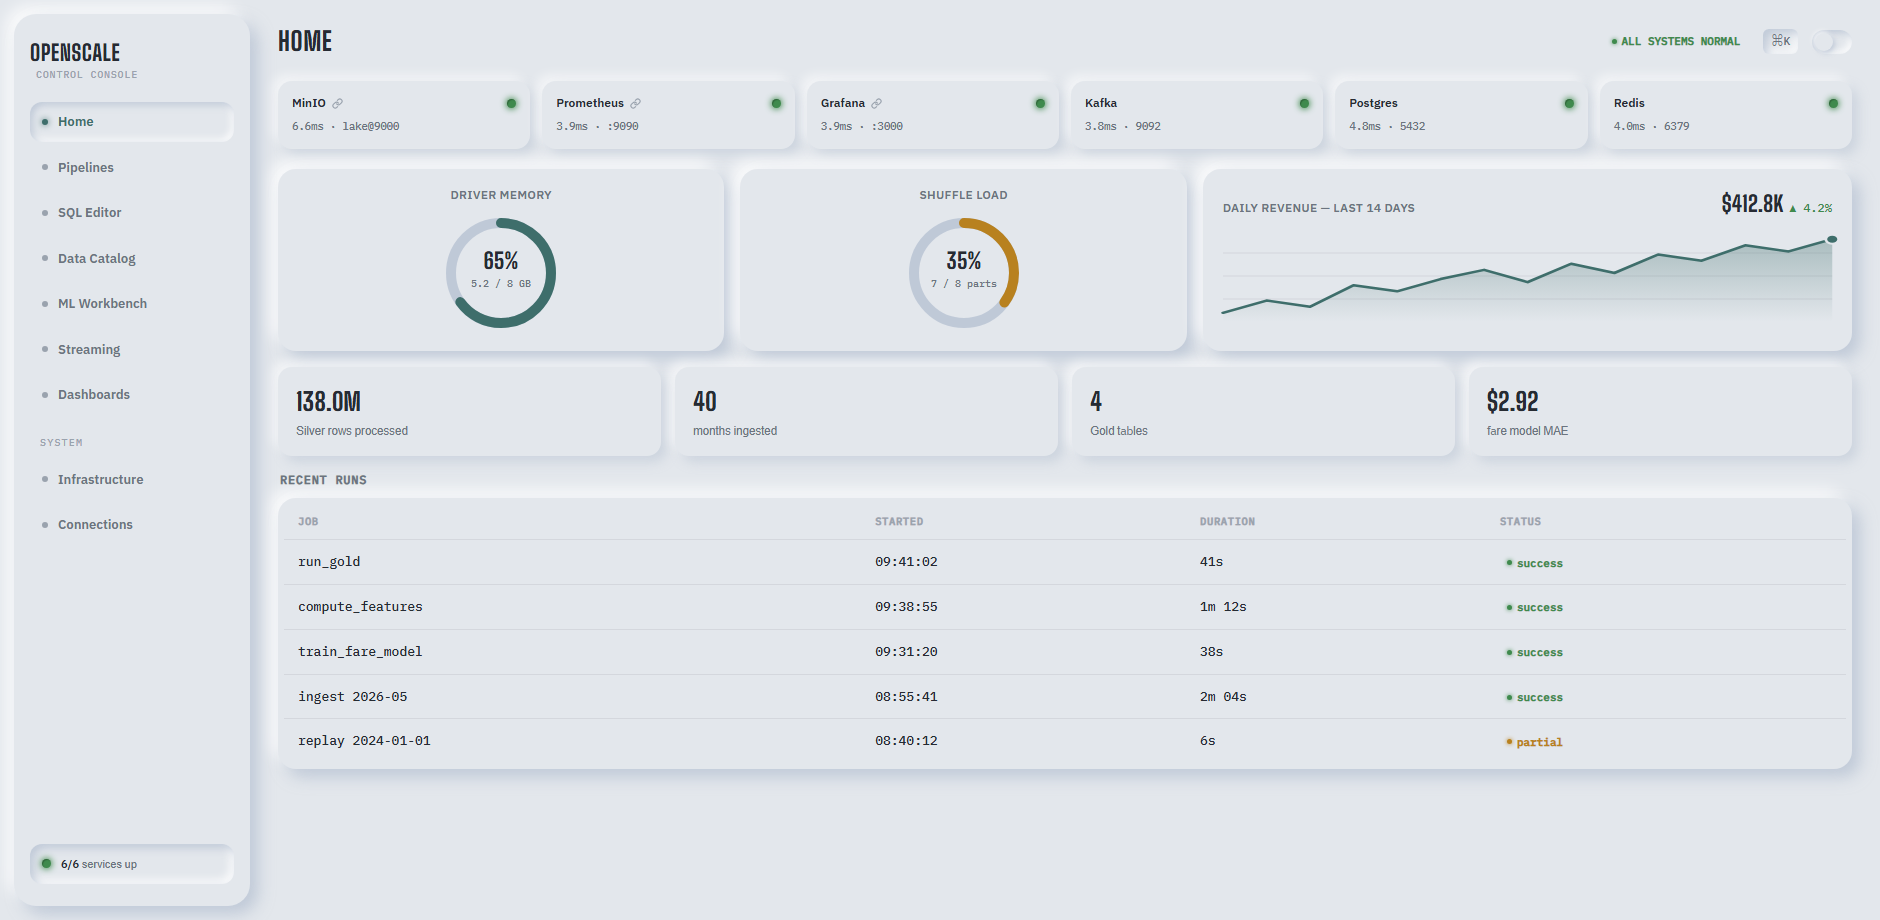
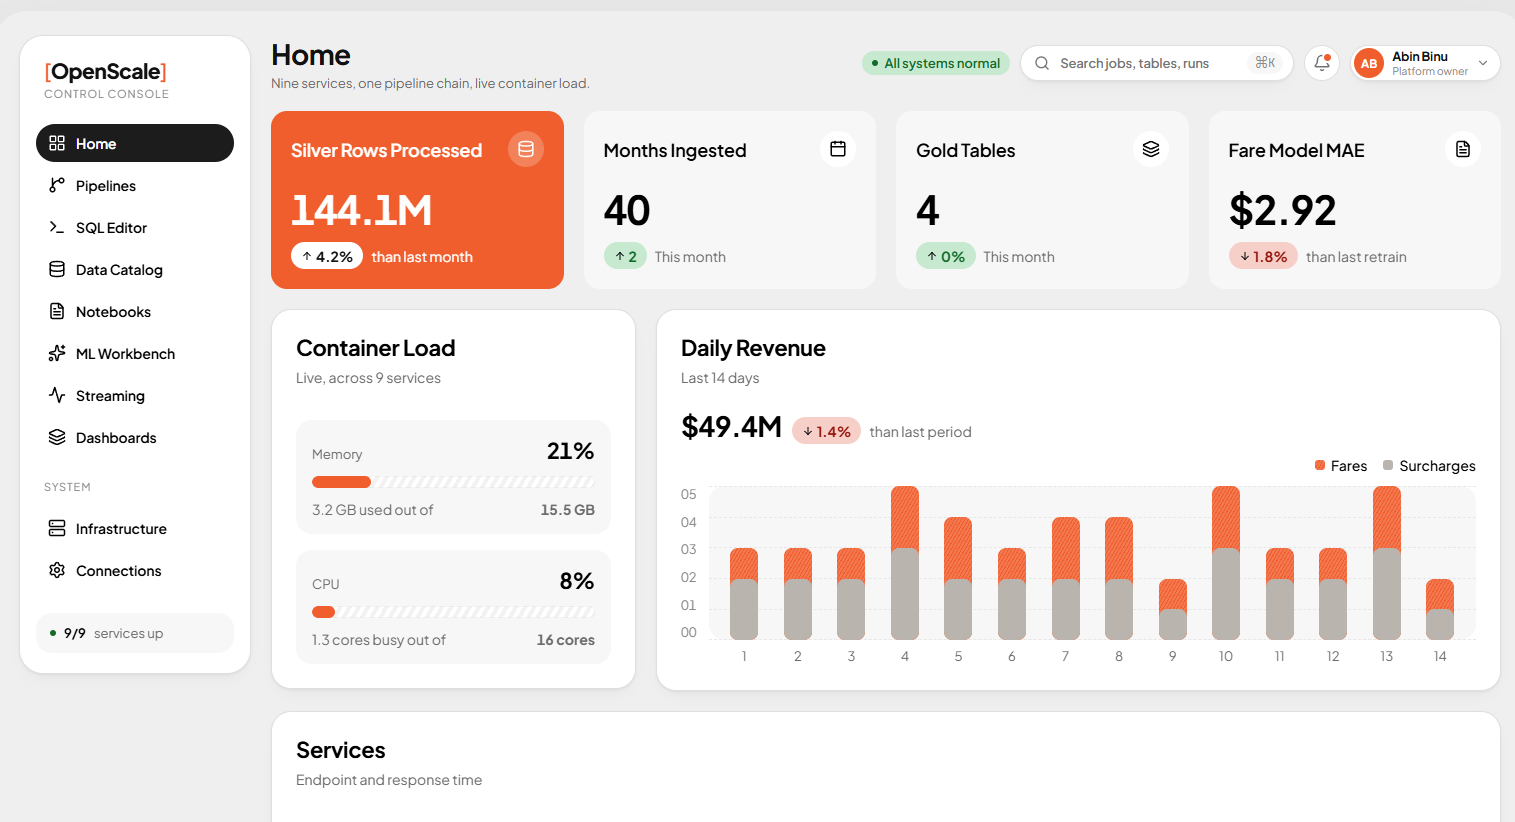
fix: update home screen screenshot in README

diff --git a/README.md b/README.md
@@ -29,71 +29,114 @@ technology choice below.
 you want to run the control-plane outside Docker for hot-reload).
 
 ```bash
-# 1. Bring up the whole backend stack (MinIO, Kafka, Postgres, Redis,
-#    Prometheus, Grafana, and the control-plane itself) as one project.
+# Everything -- MinIO, Kafka, Postgres, Redis, Prometheus, Grafana, the
+# Go control-plane, the Python worker, Jupyter, MLflow, and the frontend
+# itself -- as one Docker Compose project.
 docker compose up -d --build
-
-# 2. Run the frontend dev server separately (fast HMR, not containerized).
-cd frontend
-npm install
-npm run dev
 ```
 
 Open **http://localhost:5173**. The console talks to the control-plane at
 `http://localhost:8080` (override with `VITE_API_BASE_URL` if needed).
 
+Prefer running the frontend on the host instead (native file-watching,
+no polling)?
+
+```bash
+docker compose up -d --build
+docker compose stop frontend   # stop just the containerized frontend
+cd frontend && npm install && npm run dev
+```
+
 ## Architecture
 
 ```
-┌─────────────┐   HTTP (JSON)   ┌──────────────────┐   Docker Engine API   ┌──────────────────────────┐
-│  frontend   │ ───────────────▶│   control-plane   │──────────────────────▶│  Docker daemon           │
-│  React/Vite │                 │   Go / chi        │                        │  (MinIO, Kafka, Postgres,│
-│  :5173      │◀─────────────── │   :8080           │◀───────────────────────│   Redis, Prometheus,     │
-└─────────────┘   status JSON   └──────────────────┘   container state       │   Grafana containers)    │
-                                                                              └──────────────────────────┘
+┌─────────────┐   HTTP (JSON) +  ┌──────────────────┐   Docker Engine API   ┌──────────────────────────┐
+│  frontend   │   WebSocket      │   control-plane   │──────────────────────▶│  Docker daemon           │
+│  React/Vite │ ───────────────▶ │   Go / chi        │                        │  (inspects every         │
+│  :5173      │ ◀─────────────── │   :8080           │◀───────────────────────│   sibling container)     │
+└─────────────┘                  └──────────────────┘   container state       └──────────────────────────┘
 ```
 
-The frontend never talks to Docker, Postgres, or anything else directly —
-every data source is fronted by the Go control-plane over a versioned HTTP
-API. Each frontend domain reads through a **gateway interface it owns**
-(mock or HTTP implementation swapped behind one line), so screens not yet
-backed by a real endpoint show an honest "not built yet" placeholder
-instead of fake data.
+The frontend never talks to Postgres, Redis, Kafka, MinIO, or Docker
+directly — every data source is fronted by the Go control-plane over a
+versioned HTTP/WebSocket API. Each frontend domain reads through a
+**gateway interface it owns** (mock or HTTP implementation swapped behind
+one line, per domain).
+
+The control-plane itself fronts four more backends, each isolated to its
+own package (`internal/db`, `internal/redis`, `internal/streaming`,
+`internal/lake`) so nothing outside that package touches the underlying
+SDK directly:
+
+```
+control-plane ──dispatch──▶ Redis Stream ──consume──▶ worker (Python/PySpark)
+                                                             │
+                                    ┌────────────────────────┼────────────────────────┐
+                                    ▼                         ▼                        ▼
+                                Postgres                   MinIO                    Kafka
+                             (writes Gold +          (Bronze/Silver/Gold        (replay job
+                              feature tables)          Parquet, via Spark)     produces trips)
+
+worker ──live status/log──▶ Redis pub/sub ──relay──▶ control-plane's WebSocket hub ──▶ browser
+control-plane ──tails──▶ Kafka topic ──▶ control-plane's WebSocket hub ──▶ browser (Streaming screen)
+```
+
+Long-running work (the five pipeline stages, plus a Kafka replay) is
+dispatched onto a Redis Stream and executed by the Python worker — the
+control-plane itself never runs a Spark job or blocks on one; it only
+enqueues the request and relays whatever status/log/trip events come back.
 
 ## Repo layout
 
 ```
-control-plane/     Go backend — cmd/server + internal/{api,docker,health,config}
-frontend/           React 19 + TypeScript + Vite console, one domain per screen (DDD-structured)
+control-plane/     Go backend — cmd/server + internal/{api,db,docker,health,jobs,lake,redis,streaming,ws,config}
+frontend/           React 19 + TypeScript + Vite console, one domain per screen (DDD-structured), Dockerized
+worker/              Python job-queue worker — Spark ETL (Bronze/Silver/Gold/Features/Train) + Kafka replay producer
+jupyter/              JupyterLab image (the Notebooks screen embeds this via iframe)
+notebooks/            The 3 example notebooks JupyterLab opens (copied from etl-exposure/, not mounted from it)
 etl-exposure/        The NYC taxi lakehouse pipeline -- reference/legacy, not a dependency
 ideas/                 Vision, roadmap, and tech-stack decision docs
 observability/          Prometheus scrape config + Grafana provisioning, owned by the root compose stack
-docker-compose.yml       The full backend stack, one "openscale" compose project
+docs/                    README assets (screenshots)
+docker-compose.yml       The full stack, one "openscale" compose project -- frontend included
 ```
 
 ## What's actually built
 
-Honesty over hype — this is what's real today, not the roadmap:
+Honesty over hype — every screen below is real (backed by an actual
+control-plane endpoint or an embedded real service), not a mock or a
+placeholder. Depth varies by screen; the caveats are the actual limits,
+not modesty:
 
-| Area | Status |
+| Screen | What's real |
 |---|---|
-| Frontend shell (sidebar, top bar, routing, light/dark/flat themes, responsive layout) | Done |
-| System health (`GET /api/system-health`) — real Docker container inspection | Done |
-| Container control (`POST /api/services/{id}/start\|stop\|restart`) | Done |
-| Home screen (service health strip, resource gauges, revenue trend, recent runs) | Done, backed by mock data — no job-history endpoint yet |
-| Infrastructure screen | Done — real data, real start/stop/restart controls |
-| Connections screen (appearance settings) | Done |
-| Pipelines, SQL Editor, Data Catalog, ML Workbench, Streaming, Dashboards | Placeholder screens — each names the backend endpoint it's waiting on |
-| Pipeline execution, data catalog, SQL editor, ML workbench, generic connectors | Not started (see roadmap Phases 1-5) |
+| Home | Live container memory/CPU gauges, real job history, real Gold-backed revenue trend and stat cards |
+| Pipelines | Triggers the real job queue end to end (control-plane → Redis → worker → Postgres), live status/logs over WebSocket, run-all chaining, cancel |
+| SQL Editor | Read-only `SELECT`/`WITH` against real Postgres tables (Gold + feature table + job history) inside an actual read-only transaction. **Postgres only** — Bronze/Silver Parquet on the lake isn't queryable here yet |
+| Data Catalog | Real Postgres schema browser (row counts + sample rows via the SQL Editor's own query engine) *and* a live MinIO lake browser (real object counts/sizes across Bronze/Silver/quarantine/Gold). No column-level lineage, no Parquet content preview — a static diagram of the five real pipeline stages, not a computed graph |
+| Streaming | A `replay` job streams real Silver-layer trips onto a real Kafka topic; the control-plane tails it and pushes live trip events + windowed aggregates over WebSocket. Pause/resume/cancel/×1–×10 speed control the in-flight replay live |
+| Dashboards | Real Gold-layer charts — daily revenue, hourly demand, top zones, congestion, ETL health — chart style/theme fully re-skinnable |
+| ML Workbench | An iframe embedding a real MLflow server, tracking the same store the worker's `train` job actually logs to |
+| Notebooks | An iframe embedding a real JupyterLab, opened on 3 real example notebooks |
+| Infrastructure | Real Docker container inspection + start/stop/restart |
+| Settings | Real appearance/interface preferences (theme, accent, chart style, 12 interface skins), persisted to Postgres |
+| Global search (⌘K) | Real, live-filtered search across screens, job types, Postgres tables, and recent runs — selecting a result navigates there with the specific thing (a table, a run) already loaded |
+| System health (`GET /api/system-health`) | Real Docker container inspection across 9 watched services |
+
+Generic connectors, a config-driven pipeline builder, and multi-user auth
+are still just roadmap (`ideas/vision-and-roadmap.md`'s Phases 3+) — this
+is a real console for *this* pipeline, not yet the generic platform the
+roadmap describes.
 
 ## Tech stack
 
 | Layer | Pick |
 |---|---|
-| Frontend | React 19, TypeScript, Vite, Tailwind CSS v4, TanStack Query, React Router v7, Zustand |
-| Backend | Go, [chi](https://github.com/go-chi/chi) router, [docker/docker](https://pkg.go.dev/github.com/docker/docker/client) Engine API SDK, zerolog, caarlos0/env |
-| Infra (this stack) | MinIO, Kafka, Postgres, Redis, Prometheus, Grafana — all Dockerized |
-| Design system | Custom neomorphic/skeuomorphic component set (not a UI kit) — dual soft-shadow tokens, light/dark/flat themes, self-hosted fonts |
+| Frontend | React 19, TypeScript, Vite 8, Tailwind CSS v4, TanStack Query, React Router v7, Zustand — Dockerized (polling file-watch for HMR through the bind mount) |
+| Backend | Go, [chi](https://github.com/go-chi/chi) router, [pgx/v5](https://github.com/jackc/pgx) (Postgres), [go-redis/v9](https://github.com/redis/go-redis) (job dispatch + live event pub/sub), [segmentio/kafka-go](https://github.com/segmentio/kafka-go), [minio-go/v7](https://github.com/minio/minio-go) (lake browsing), [nhooyr.io/websocket](https://github.com/nhooyr/websocket), [docker/docker](https://pkg.go.dev/github.com/docker/docker/client) Engine API SDK, zerolog, caarlos0/env |
+| Worker | Python, PySpark (Bronze→Silver→Gold→Features→Train), kafka-python (the Streaming replay producer), psycopg2, redis-py, MLflow client, scikit-learn |
+| Infra (this stack) | MinIO, Kafka (KRaft, no Zookeeper), Postgres, Redis, Prometheus, Grafana, JupyterLab, MLflow — all Dockerized |
+| Design system | Custom neomorphic/skeuomorphic component set (not a UI kit) — 12 selectable interface-style skins, dual soft-shadow tokens, light/dark themes, self-hosted fonts |
 
 Full rationale for each pick, including what was considered and rejected
 (Next.js, shadcn, Python for the control-plane), is in
@@ -110,13 +153,20 @@ go build ./...
 go vet ./...
 ```
 
-Config is env-driven (see `internal/config/config.go`):
+Config is env-driven (see `internal/config/config.go`) — defaults below
+are the host-run values; `docker-compose.yml` overrides the connection
+strings to in-network container names for the control-plane's own service:
 
-| Var | Default | Meaning |
+| Var | Default (host-run) | Meaning |
 |---|---|---|
 | `PORT` | `8080` | HTTP listen port |
-| `FRONTEND_ORIGIN` | `http://localhost:5173` | CORS-allowed origin |
+| `FRONTEND_ORIGIN` | `http://localhost:5173` | CORS-allowed origin + WebSocket upgrade origin check |
 | `DOCKER_HOST` | *(SDK default)* | Override the Docker Engine API endpoint |
+| `POSTGRES_DSN` | `postgres://openscale:openscale@localhost:5432/openscale?sslmode=disable` | Postgres connection string |
+| `REDIS_ADDR` | `localhost:6379` | Job dispatch stream + live event pub/sub |
+| `KAFKA_BROKER` | `localhost:29092` | Kafka's external listener (compose overrides to the in-network `kafka:9092`) |
+| `MINIO_ENDPOINT` | `http://localhost:9000` | MinIO/S3 endpoint the Data Catalog's lake browser reads |
+| `MINIO_ACCESS_KEY` / `MINIO_SECRET_KEY` | `minioadmin` / `minioadmin` | Local dev credentials only |
 
 ### Frontend (React)
 
@@ -128,20 +178,23 @@ npm run lint      # oxlint
 ```
 
 `VITE_API_BASE_URL` (default `http://localhost:8080`) points the frontend
-at the control-plane.
+at the control-plane — read by the *browser* (Vite inlines `VITE_`-prefixed
+vars into the served bundle), so this stays `localhost` even when the
+frontend itself runs in its own container.
 
 ### Full stack via Docker
 
 ```bash
-docker compose up -d --build   # everything except the frontend dev server
+docker compose up -d --build   # everything, including the frontend
 docker compose ps
 docker compose logs -f control-plane
 ```
 
-The compose project is named `openscale`; all six infra services plus the
-control-plane run under it. `etl-exposure/docker-compose.yml` still exists
-but is superseded — don't run both at once, they define containers with the
-same names.
+The compose project is named `openscale`; MinIO, Kafka, Postgres, Redis,
+Prometheus, Grafana, Jupyter, MLflow, the Go control-plane, the Python
+worker, and the frontend all run under it as one stack.
+`etl-exposure/docker-compose.yml` still exists but is superseded — don't
+run both at once, they define containers with the same names.
 
 ## Design principles this codebase follows
 
@@ -152,6 +205,11 @@ same names.
 - **Dependency inversion** — frontend hooks depend on gateway *interfaces*
   they own, never on a concrete HTTP client; swapping mock → real is a
   one-line change per domain.
+- **One package per external system, on the backend** — `internal/redis`,
+  `internal/docker`, `internal/streaming` (Kafka), and `internal/lake`
+  (MinIO) are each the *only* file importing that system's SDK; nothing
+  outside them touches go-redis, the Docker client, kafka-go, or minio-go
+  directly.
 - **No fake data in real screens, no fake controls on real data** — a
   screen either has a real backend behind it, or it says so.
 - **`etl-exposure/` is read-only history** — copy logic out of it if a
